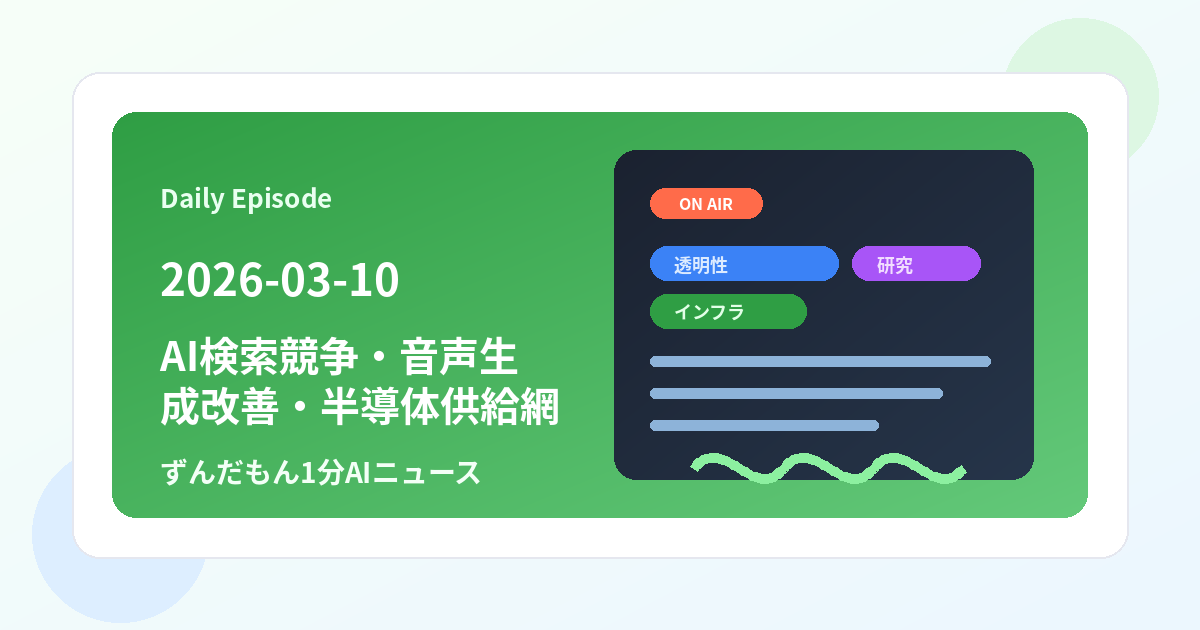
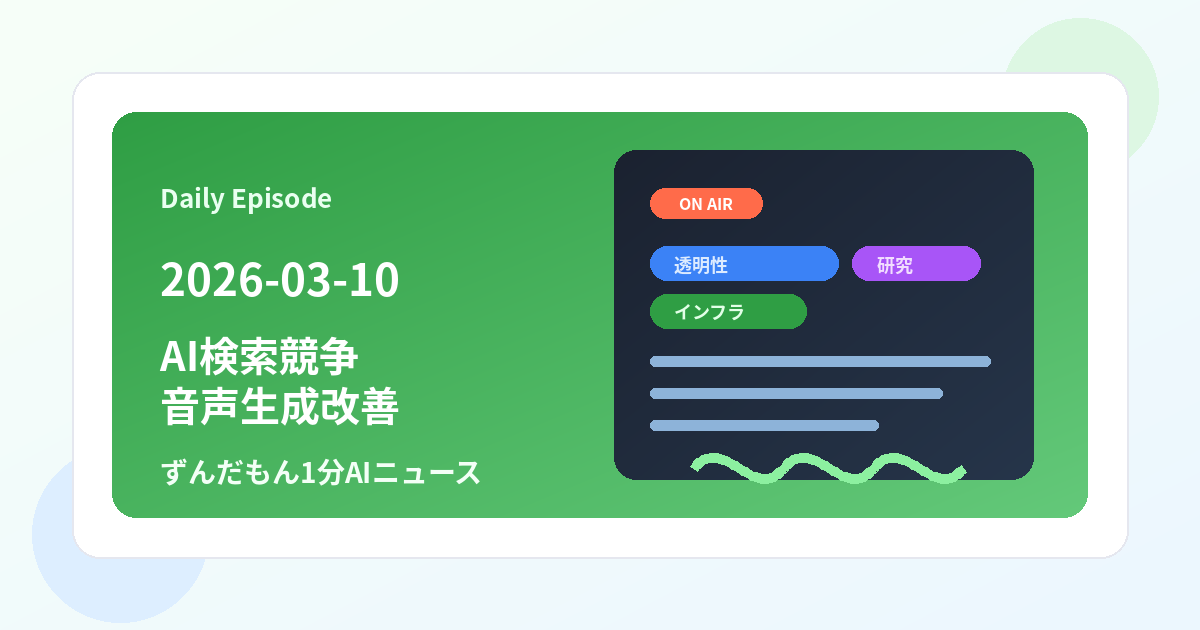
Split OGP titles by topic

Changed region(s): [[0.1233, 0.5127, 0.4625, 0.6937]]

diff --git a/scripts/render_ogp.py b/scripts/render_ogp.py
@@ -190,37 +190,28 @@ def split_title_lines(title: str, font, max_width: int) -> list[str]:
     if bbox[2] - bbox[0] <= max_width:
         return [title]
 
-    parts = title.replace('・', '・|').split('|') if '・' in title else [title]
-    if len(parts) > 1:
-        lines: list[str] = []
-        current = ''
-        for part in parts:
-            candidate = current + part if current else part
-            candidate_bbox = text_bbox(probe, candidate, font)
-            if current and candidate_bbox[2] - candidate_bbox[0] > max_width:
-                lines.append(current)
-                current = part.lstrip()
-            else:
-                current = candidate
-        if current:
-            lines.append(current)
-        if len(lines) <= 2 and all((text_bbox(probe, line, font)[2] - text_bbox(probe, line, font)[0]) <= max_width for line in lines):
-            return lines
+    topics = [part.strip() for part in title.split('・') if part.strip()]
+    if len(topics) > 1:
+        kept_topics = topics[:]
+        while kept_topics:
+            best_lines = None
+            best_score = None
+            for split_idx in range(1, len(kept_topics) + 1):
+                left = '・'.join(kept_topics[:split_idx])
+                right_topics = kept_topics[split_idx:]
+                lines = [left] if not right_topics else [left, '・'.join(right_topics)]
+                widths = [text_bbox(probe, line, font)[2] - text_bbox(probe, line, font)[0] for line in lines]
+                if all(width <= max_width for width in widths):
+                    score = abs(widths[0] - widths[-1]) if len(widths) == 2 else widths[0]
+                    if best_score is None or score < best_score:
+                        best_score = score
+                        best_lines = lines
+            if best_lines:
+                return best_lines
+            kept_topics.pop()
 
-    best_split = None
-    for i in range(1, len(title)):
-        left = title[:i].rstrip(' ・')
-        right = title[i:].lstrip(' ・')
-        if not left or not right:
-            continue
-        left_w = text_bbox(probe, left, font)[2] - text_bbox(probe, left, font)[0]
-        right_w = text_bbox(probe, right, font)[2] - text_bbox(probe, right, font)[0]
-        if left_w <= max_width and right_w <= max_width:
-            score = abs(left_w - right_w)
-            if best_split is None or score < best_split[0]:
-                best_split = (score, left, right)
-    if best_split:
-        return [best_split[1], best_split[2]]
+        first_topic = topics[0]
+        return [fit_text(first_topic, len(first_topic), max_width, font, ellipsis=False)]
 
     first = fit_text(title, len(title), max_width, font)
     consumed = len(first.rstrip('…'))
